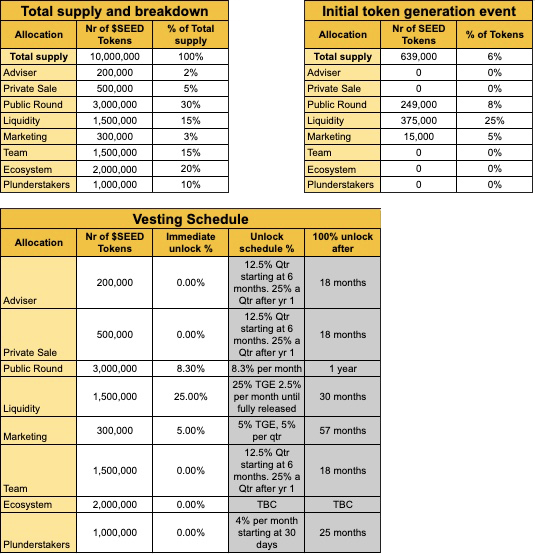
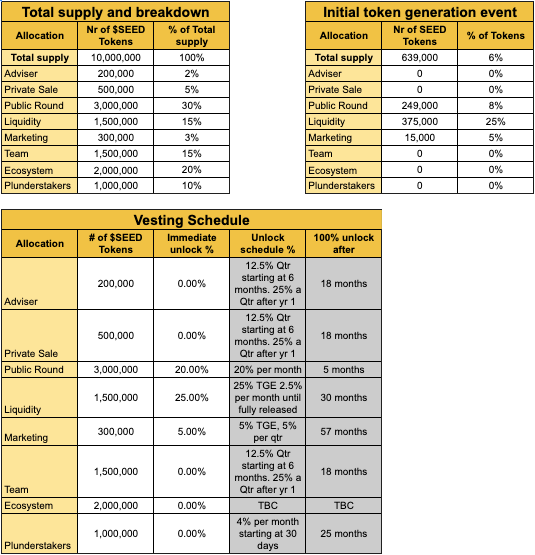
vesting updates

Changed region(s): [[0.0, 0.0, 1.0, 1.0], [0.329, 0.9513, 0.3888, 0.9819], [0.628, 0.8899, 0.6579, 0.9206]]

diff --git a/litepaper.html b/litepaper.html
@@ -179,7 +179,7 @@
 
                             <p class="c3"><span class="c1"></span></p><p class="c8 c39"><span class="c40 c11"></span></p><p class="c8"><span class="c11 c40">SEED TOKENOMICS</span></p><p class="c8 c39"><span class="c1"></span></p><p class="c3"><span class="c5"></span></p><p class="c17"><span>This is the official whitepaper for the </span><span class="c11">SEED</span><span>&nbsp;token sale. This document outlines the distribution schedule, allocation details, and use of the token proceeds. </span><span class="c11">SEED</span><span class="c1">&nbsp;is the very first Digital Asset Reserve Token on the Zilliqa blockchain.</span></p><p class="c3"><span class="c1"></span></p><p class="c3"><span class="c1"></span></p><p class="c17"><span class="c5">Introduction/Overview</span></p><p class="c17"><span class="c11">SEED</span><span>&nbsp; is a groundbreaking token introduced on the Zilliqa blockchain, marking the inception of the first-ever digital reserve asset token. The fundamental purpose of </span><span class="c11">SEED</span><span>&nbsp;lies in its unique economic model designed to generate sustainable value for its holders. Through the proceeds from token sales, </span><span class="c11">SEED</span><span>&nbsp;aims to strategically invest in profit-generating protocols. The returns from these investments will be utilized to execute a systematic buyback and burn mechanism, effectively reducing the circulating supply of </span><span class="c11">SEED</span><span class="c1">&nbsp;and enhancing its market value.</span></p><p class="c3"><span class="c1"></span></p><p class="c3"><span class="c1"></span></p><p class="c17"><span class="c5">Token Allocation</span></p><p class="c3"><span class="c1"></span></p><p class="c17"><span>Token Allocation Summary for </span><span class="c11">SEED</span><span class="c1">:</span></p><p class="c17"><span class="c1">&nbsp;</span></p><p class="c17"><span class="c1">1. Advisor (2%):</span></p><p class="c17"><span>&nbsp; &nbsp;- Allocation for advisors who contribute valuable insights and guidance to the </span><span class="c11">SEED</span><span class="c1">&nbsp;project.</span></p><p class="c17"><span class="c1">&nbsp;</span></p><p class="c17"><span class="c1">2. Private Sale (5%):</span></p><p class="c16"><span>&nbsp; &nbsp;- Reserved for early supporters and private investors who play a crucial role in the initial &nbsp; &nbsp; &nbsp; development and success of </span><span class="c11">SEED</span><span class="c1">.</span></p><p class="c17 c53"><span class="c1">&nbsp;</span></p><p class="c17"><span class="c1">3. Public Round (30%):</span></p><p class="c16"><span>&nbsp; &nbsp;- Open to the public, allowing a broad community to participate in the </span><span class="c11">SEED</span><span class="c1">&nbsp;project during the public token sale.</span></p><p class="c17"><span class="c1">&nbsp;</span></p><p class="c17"><span class="c1">4. Liquidity (15%):</span></p><p class="c16"><span>&nbsp; &nbsp;- Dedicated to ensuring liquidity on the PlunderSwap DEX, promoting a vibrant and active trading environment for </span><span class="c11">SEED</span><span class="c1">.</span></p><p class="c17"><span class="c1">&nbsp;</span></p><p class="c17"><span class="c1">5. Marketing (3%):</span></p><p class="c16"><span>&nbsp; &nbsp;- Allocated for strategic marketing initiatives to raise awareness and promote the adoption of </span><span class="c11">SEED</span><span class="c1">&nbsp; within the Zilliqa community.</span></p><p class="c17"><span class="c1">&nbsp;</span></p><p class="c17"><span class="c1">6. Team (15%):</span></p><p class="c16"><span>&nbsp; &nbsp;- Reserved for the core team members involved in the development, maintenance, and growth of the </span><span class="c11">SEED</span><span class="c1">&nbsp; ecosystem.</span></p><p class="c3"><span class="c1"></span></p><p class="c3"><span class="c1"></span></p><p class="c17"><span class="c1">7. Ecosystem (20%):</span></p><p class="c16"><span>&nbsp; &nbsp;- Invested in various profit-generating protocols, forming the backbone of </span><span class="c11">SEED</span><span class="c1">&#39;s digital reserve asset concept.</span></p><p class="c17"><span class="c1">&nbsp;</span></p><p class="c17"><span class="c1">8. Staker Rewards (10%):</span></p><p class="c16"><span>&nbsp; &nbsp;- Incentives for the community to hold and stake the </span><span class="c11">SEED</span><span class="c1">&nbsp;token, contributing to the stability and longevity of the ecosystem.</span></p><p class="c16"><span class="c1">&nbsp;</span></p><p class="c17"><span class="c11 c33">TOTAL (100%):</span></p><p class="c16"><span>&nbsp; &nbsp;- Represents the comprehensive token allocation ensuring a balanced distribution that aligns with the long-term vision of </span><span class="c11">SEED</span><span>. This structure aims to foster a robust and sustainable ecosystem, rewarding all key stakeholders and encouraging active participation within the </span><span class="c11">SEED</span><span class="c1">&nbsp;community.</span></p><p class="c3"><span class="c1"></span></p><p class="c3"><span class="c5"></span></p><p class="c3"><span class="c5"></span></p><p class="c17"><span class="c5">Token Distribution Schedule</span></p><p class="c3"><span class="c1"></span></p><p class="c17"><span>The total supply of </span><span class="c11">SEED</span><span class="c1">&nbsp;is set at 10,000,000 tokens. The Token Generation Event (TGE) will take place on Day 1, with subsequent distributions occurring at predetermined timeframes (monthly and quarterly) over a 57-month period.</span></p><p class="c3"><span class="c1"></span></p><p class="c3"><span class="c1"></span></p><p class="c3"><span class="c1"></span></p><p class="c3"><span class="c1"></span></p><p class="c17"><span class="c5">Description of Token Use</span></p><p class="c3"><span class="c5"></span></p><a id="t.fbe630b27e29f3c7677c6f12066ea9967d1e6c48"></a><a id="t.0"></a>
                             <img src="images/image3.png">
-                            <p class="c3"><span class="c5"></span></p><p class="c17"><span class="c5">Token Distribution Details</span></p><p class="c3"><span class="c5"></span></p><p class="c17"><span class="c5">Advisor</span></p><a id="t.72db055b9c10b06fbc738f1b09fb3c8650adc62a"></a><a id="t.1"></a><table class="c45"><tr class="c49"><td class="c15" colspan="1" rowspan="1"><p class="c6"><span class="c1">Token Allotment @ TGE (Day 1)</span></p></td><td class="c24" colspan="1" rowspan="1"><p class="c6"><span class="c1">Vesting Schedule</span></p></td><td class="c37 c34" colspan="1" rowspan="1"><p class="c6"><span class="c1">Total Token Allocation</span></p></td><td class="c0" colspan="1" rowspan="1"><p class="c6"><span class="c1">100% Vested After</span></p></td></tr><tr class="c18"><td class="c41" colspan="1" rowspan="1"><p class="c8"><span class="c1">0</span></p></td><td class="c44" colspan="1" rowspan="1"><p class="c8"><span class="c1">Quarterly &nbsp;</span></p></td><td class="c48" colspan="1" rowspan="1"><p class="c17"><span class="c1">&nbsp; &nbsp; &nbsp; &nbsp; &nbsp; &nbsp; &nbsp; 200,000</span></p></td><td class="c55" colspan="1" rowspan="1"><p class="c8"><span class="c1">18 Months &nbsp; &nbsp;</span></p></td></tr></table><p class="c3"><span class="c1"></span></p><p class="c3"><span class="c1"></span></p><p class="c17"><span class="c5">Private Sale</span></p><a id="t.b46cc38a58ca2e1f2f03e9da78622d5493d8d6ae"></a><a id="t.2"></a><table class="c45"><tr class="c18"><td class="c4 c34" colspan="1" rowspan="1"><p class="c6"><span class="c1">Token Allotment @ TGE (Day 1)</span></p></td><td class="c24" colspan="1" rowspan="1"><p class="c6"><span class="c1">Vesting Schedule</span></p></td><td class="c34 c43" colspan="1" rowspan="1"><p class="c6"><span class="c1">Total Token Allocation</span></p></td><td class="c10 c34" colspan="1" rowspan="1"><p class="c6"><span class="c1">100% Vested After</span></p></td></tr><tr class="c18"><td class="c4" colspan="1" rowspan="1"><p class="c8"><span class="c1">0 &nbsp; &nbsp; &nbsp; &nbsp; </span></p></td><td class="c44 c47" colspan="1" rowspan="1"><p class="c8"><span class="c1">Quarterly</span></p></td><td class="c43" colspan="1" rowspan="1"><p class="c8"><span class="c1">500,000 &nbsp; &nbsp; &nbsp; &nbsp; &nbsp; &nbsp; &nbsp; </span></p></td><td class="c10" colspan="1" rowspan="1"><p class="c8"><span class="c1">18 Months &nbsp; &nbsp;</span></p></td></tr></table><p class="c3"><span class="c1"></span></p><p class="c3"><span class="c1"></span></p><p class="c17"><span class="c5">Public Round</span></p><a id="t.b650da941dede19bde555898ff059409dfdc61e3"></a><a id="t.3"></a><table class="c45"><tr class="c18"><td class="c9 c34" colspan="1" rowspan="1"><p class="c6"><span class="c1">Token Allotment @ TGE (Day 1)</span></p></td><td class="c47 c34 c50" colspan="1" rowspan="1"><p class="c6"><span class="c1">Vesting Schedule</span></p></td><td class="c37 c34" colspan="1" rowspan="1"><p class="c6"><span class="c1">Total Token Allocation</span></p></td><td class="c0" colspan="1" rowspan="1"><p class="c6"><span class="c1">100% Vested After</span></p></td></tr><tr class="c18"><td class="c9" colspan="1" rowspan="1"><p class="c8"><span class="c1">249,000 &nbsp; &nbsp; &nbsp; &nbsp; &nbsp; &nbsp;</span></p></td><td class="c50 c47" colspan="1" rowspan="1"><p class="c8"><span class="c1">Monthly &nbsp; &nbsp;</span></p></td><td class="c37" colspan="1" rowspan="1"><p class="c8"><span class="c1">3,000,000 &nbsp; &nbsp; &nbsp; &nbsp; &nbsp; &nbsp; </span></p></td><td class="c46" colspan="1" rowspan="1"><p class="c8"><span class="c1">12 Months &nbsp; </span></p></td></tr></table><p class="c3"><span class="c1"></span></p><p class="c3"><span class="c1"></span></p><p class="c17"><span class="c5">Marketing</span></p><a id="t.c1a7bb89cf7cef8a136aa7e26ece98247c0ef499"></a><a id="t.4"></a><table class="c45"><tr class="c18"><td class="c15" colspan="1" rowspan="1"><p class="c6"><span class="c1">Token Allotment @ TGE (Day 1)</span></p></td><td class="c42 c34" colspan="1" rowspan="1"><p class="c6"><span class="c1">Vesting Schedule</span></p></td><td class="c38 c34" colspan="1" rowspan="1"><p class="c6"><span class="c1">Total Token Allocation</span></p></td><td class="c10 c34" colspan="1" rowspan="1"><p class="c6"><span class="c1">100% Vested After</span></p></td></tr><tr class="c18"><td class="c41" colspan="1" rowspan="1"><p class="c8"><span class="c1">15,000 &nbsp; &nbsp; &nbsp; &nbsp; &nbsp; </span></p></td><td class="c42" colspan="1" rowspan="1"><p class="c8"><span class="c1">Quarterly &nbsp; &nbsp;</span></p></td><td class="c38" colspan="1" rowspan="1"><p class="c8"><span class="c1">300,000 &nbsp; &nbsp; &nbsp; &nbsp; &nbsp; &nbsp; </span></p></td><td class="c10" colspan="1" rowspan="1"><p class="c8"><span class="c1">57 Months &nbsp; </span></p></td></tr></table><p class="c3"><span class="c1"></span></p><p class="c3"><span class="c1"></span></p><p class="c17"><span class="c5">Liquidity</span></p><a id="t.1810d07a531e0c4413435f2ee3cb5c5985b67c41"></a><a id="t.5"></a><table class="c45"><tr class="c18"><td class="c15" colspan="1" rowspan="1"><p class="c6"><span class="c1">Token Allotment @ TGE (Day 1)</span></p></td><td class="c20 c34" colspan="1" rowspan="1"><p class="c6"><span class="c1">Vesting Schedule</span></p></td><td class="c38 c34" colspan="1" rowspan="1"><p class="c6"><span class="c1">Total Token Allocation</span></p></td><td class="c43 c34" colspan="1" rowspan="1"><p class="c6"><span class="c1">100% Vested After</span></p></td></tr><tr class="c18"><td class="c41" colspan="1" rowspan="1"><p class="c8"><span class="c1">375,000 &nbsp; &nbsp; &nbsp; &nbsp; &nbsp;</span></p></td><td class="c20" colspan="1" rowspan="1"><p class="c8"><span class="c1">Monthly</span></p></td><td class="c38" colspan="1" rowspan="1"><p class="c8"><span class="c1">1,500,000 &nbsp; &nbsp; &nbsp; &nbsp; &nbsp; &nbsp; &nbsp; </span></p></td><td class="c43" colspan="1" rowspan="1"><p class="c8"><span class="c1">30 Months &nbsp; &nbsp;</span></p></td></tr></table><p class="c3"><span class="c1"></span></p><p class="c3"><span class="c1"></span></p><p class="c17"><span class="c5">Team</span></p><a id="t.6c3ff102ac706066e7102e03fe6d2fa4e0390f0e"></a><a id="t.6"></a><table class="c45"><tr class="c18"><td class="c9 c34" colspan="1" rowspan="1"><p class="c6"><span class="c1">Token Allotment @ TGE (Day 1)</span></p></td><td class="c24" colspan="1" rowspan="1"><p class="c6"><span class="c1">Vesting Schedule</span></p></td><td class="c21" colspan="1" rowspan="1"><p class="c6"><span class="c1">Total Token Allocation</span></p></td><td class="c34 c38" colspan="1" rowspan="1"><p class="c6"><span class="c1">100% Vested After</span></p></td></tr><tr class="c18"><td class="c9" colspan="1" rowspan="1"><p class="c8"><span class="c1">0 &nbsp; &nbsp; &nbsp; &nbsp; &nbsp; </span></p></td><td class="c44 c47" colspan="1" rowspan="1"><p class="c8"><span class="c1">Quarterly</span></p></td><td class="c47 c52" colspan="1" rowspan="1"><p class="c8"><span class="c1">1,500,000 &nbsp; &nbsp; &nbsp; &nbsp; &nbsp; &nbsp; &nbsp;</span></p></td><td class="c38" colspan="1" rowspan="1"><p class="c8"><span class="c1">18 Months &nbsp;</span></p></td></tr></table><p class="c3"><span class="c5"></span></p><p class="c3"><span class="c5"></span></p><p class="c17"><span class="c5">Ecosystem</span></p><a id="t.b5202189763bf8323b51d3122d4bd9240e922412"></a><a id="t.7"></a><table class="c45"><tr class="c18"><td class="c22 c34" colspan="1" rowspan="1"><p class="c6"><span class="c1">Token Allotment @ TGE (Day 1)</span></p></td><td class="c25" colspan="1" rowspan="1"><p class="c6"><span class="c1">Vesting Schedule</span></p></td><td class="c36 c34" colspan="1" rowspan="1"><p class="c6"><span class="c1">Total Token Allocation</span></p></td><td class="c37 c34" colspan="1" rowspan="1"><p class="c6"><span class="c1">100% Vested After</span></p></td></tr><tr class="c18"><td class="c22" colspan="1" rowspan="1"><p class="c8"><span class="c1">0 &nbsp; &nbsp; &nbsp;</span></p></td><td class="c47 c54" colspan="1" rowspan="1"><p class="c8"><span class="c1">Varies</span></p></td><td class="c36" colspan="1" rowspan="1"><p class="c8"><span class="c1">2,000,000 &nbsp; &nbsp; &nbsp; &nbsp; &nbsp; &nbsp;</span></p></td><td class="c37" colspan="1" rowspan="1"><p class="c8"><span class="c1">N/A &nbsp; </span></p></td></tr></table><p class="c3"><span class="c5"></span></p><p class="c3"><span class="c5"></span></p><p class="c17"><span class="c5">PlunderStake Rewards</span></p><a id="t.ad6bd5a79016df0549506fe1009327287f190c25"></a><a id="t.8"></a><table class="c45"><tr class="c18"><td class="c22 c34" colspan="1" rowspan="1"><p class="c6"><span class="c1">Token Allotment @ TGE (Day 1)</span></p></td><td class="c34 c35" colspan="1" rowspan="1"><p class="c6"><span class="c1">Vesting Schedule</span></p></td><td class="c10 c34" colspan="1" rowspan="1"><p class="c6"><span class="c1">Total Token Allocation</span></p></td><td class="c10 c34" colspan="1" rowspan="1"><p class="c6"><span class="c1">100% Vested After</span></p></td></tr><tr class="c18"><td class="c22" colspan="1" rowspan="1"><p class="c8"><span class="c1">0 &nbsp; &nbsp; &nbsp; &nbsp; &nbsp;</span></p></td><td class="c35" colspan="1" rowspan="1"><p class="c8"><span class="c1">Monthly</span></p></td><td class="c10" colspan="1" rowspan="1"><p class="c8"><span class="c1">1,000,000 &nbsp; &nbsp; &nbsp; &nbsp; &nbsp; &nbsp; </span></p></td><td class="c10" colspan="1" rowspan="1"><p class="c8"><span class="c1">25 Months &nbsp; &nbsp; </span></p></td></tr></table><p class="c3"><span class="c5"></span></p><p class="c3"><span class="c5"></span></p><p class="c3"><span class="c5"></span></p><p class="c17"><span class="c5">Token Allocation Review</span></p><p class="c3"><span class="c1"></span></p><p class="c17"><span class="c1">The total token allocation is 10,000,000, with an equivalent value of $960,000.</span></p><p class="c3"><span class="c1"></span></p><p><img alt="" src="images/image2.png" style="max-width:100%; max-height:100%; margin-left: 0.00px; margin-top: 0.00px; transform: rotate(0.00rad) translateZ(0px); -webkit-transform: rotate(0.00rad) translateZ(0px);" title=""></p><p><img alt="" src="images/image1.png" style="width: auto; object-fit: contain; margin-left: 0.00px; margin-top: 0.00px; transform: rotate(0.00rad) translateZ(0px); -webkit-transform: rotate(0.00rad) translateZ(0px);" title=""></p><p class="c17"><span class="c5">Long term Objective</span></p><p class="c3"><span class="c5"></span></p><p class="c17"><span>The long-term objective of </span><span class="c11">SEED</span><span>&nbsp;is to establish itself as a robust digital reserve asset, fostering a self-sustaining ecosystem on the Zilliqa blockchain. By consistently reinvesting in proven, revenue generating protocols, </span><span class="c11">SEED</span><span>&nbsp;aims to not only increase its intrinsic value but also to contribute to the broader development of decentralized finance. </span><span class="c11">SEED </span><span>is committed to &nbsp;incentivizing its community through various mechanisms. Rewards for token holders providing liquidity on the PlunderSwap DEX, along with additional incentives for those staking their </span><span class="c11">SEED</span><span>&nbsp; tokens on the PlunderStake SSN, are integral to fostering a committed and engaged community. Through these initiatives, </span><span class="c11">SEED</span><span class="c1">&nbsp;strives to create a resilient financial infrastructure, encouraging long-term holding and active participation, thereby solidifying its position as a key protocol in the evolving Zilliqa ecosystem.</span></p><p class="c3"><span class="c5"></span></p><p class="c3"><span class="c5"></span></p><p class="c17"><span class="c5">Conclusion</span></p><p class="c3"><span class="c1"></span></p><p class="c17"><span class="c11">SEED</span><span class="c1">&nbsp;envisions a groundbreaking project, and we appreciate your support in making this vision a reality. For more details, please visit us on {X, TG, etc}. </span></p><p class="c3"><span class="c1"></span></p><p class="c17" id="h.gjdgxs"><span class="c11">*NOTE</span><span>: The values in this whitepaper are for illustrative purposes only and are subject to change based on market conditions and project developments. </span><span class="c51">NOT FINANCIAL ADVICE</span><span class="c1">*</span></p>
+                            <p class="c3"><span class="c5"></span></p><p class="c17"><span class="c5">Token Distribution Details</span></p><p class="c3"><span class="c5"></span></p><p class="c17"><span class="c5">Advisor</span></p><a id="t.72db055b9c10b06fbc738f1b09fb3c8650adc62a"></a><a id="t.1"></a><table class="c45"><tr class="c49"><td class="c15" colspan="1" rowspan="1"><p class="c6"><span class="c1">Token Allotment @ TGE (Day 1)</span></p></td><td class="c24" colspan="1" rowspan="1"><p class="c6"><span class="c1">Vesting Schedule</span></p></td><td class="c37 c34" colspan="1" rowspan="1"><p class="c6"><span class="c1">Total Token Allocation</span></p></td><td class="c0" colspan="1" rowspan="1"><p class="c6"><span class="c1">100% Vested After</span></p></td></tr><tr class="c18"><td class="c41" colspan="1" rowspan="1"><p class="c8"><span class="c1">0</span></p></td><td class="c44" colspan="1" rowspan="1"><p class="c8"><span class="c1">Quarterly &nbsp;</span></p></td><td class="c48" colspan="1" rowspan="1"><p class="c17"><span class="c1">&nbsp; &nbsp; &nbsp; &nbsp; &nbsp; &nbsp; &nbsp; 200,000</span></p></td><td class="c55" colspan="1" rowspan="1"><p class="c8"><span class="c1">18 Months &nbsp; &nbsp;</span></p></td></tr></table><p class="c3"><span class="c1"></span></p><p class="c3"><span class="c1"></span></p><p class="c17"><span class="c5">Private Sale</span></p><a id="t.b46cc38a58ca2e1f2f03e9da78622d5493d8d6ae"></a><a id="t.2"></a><table class="c45"><tr class="c18"><td class="c4 c34" colspan="1" rowspan="1"><p class="c6"><span class="c1">Token Allotment @ TGE (Day 1)</span></p></td><td class="c24" colspan="1" rowspan="1"><p class="c6"><span class="c1">Vesting Schedule</span></p></td><td class="c34 c43" colspan="1" rowspan="1"><p class="c6"><span class="c1">Total Token Allocation</span></p></td><td class="c10 c34" colspan="1" rowspan="1"><p class="c6"><span class="c1">100% Vested After</span></p></td></tr><tr class="c18"><td class="c4" colspan="1" rowspan="1"><p class="c8"><span class="c1">0 &nbsp; &nbsp; &nbsp; &nbsp; </span></p></td><td class="c44 c47" colspan="1" rowspan="1"><p class="c8"><span class="c1">Quarterly</span></p></td><td class="c43" colspan="1" rowspan="1"><p class="c8"><span class="c1">500,000 &nbsp; &nbsp; &nbsp; &nbsp; &nbsp; &nbsp; &nbsp; </span></p></td><td class="c10" colspan="1" rowspan="1"><p class="c8"><span class="c1">18 Months &nbsp; &nbsp;</span></p></td></tr></table><p class="c3"><span class="c1"></span></p><p class="c3"><span class="c1"></span></p><p class="c17"><span class="c5">Public Round</span></p><a id="t.b650da941dede19bde555898ff059409dfdc61e3"></a><a id="t.3"></a><table class="c45"><tr class="c18"><td class="c9 c34" colspan="1" rowspan="1"><p class="c6"><span class="c1">Token Allotment @ TGE (Day 1)</span></p></td><td class="c47 c34 c50" colspan="1" rowspan="1"><p class="c6"><span class="c1">Vesting Schedule</span></p></td><td class="c37 c34" colspan="1" rowspan="1"><p class="c6"><span class="c1">Total Token Allocation</span></p></td><td class="c0" colspan="1" rowspan="1"><p class="c6"><span class="c1">100% Vested After</span></p></td></tr><tr class="c18"><td class="c9" colspan="1" rowspan="1"><p class="c8"><span class="c1">249,000 &nbsp; &nbsp; &nbsp; &nbsp; &nbsp; &nbsp;</span></p></td><td class="c50 c47" colspan="1" rowspan="1"><p class="c8"><span class="c1">Monthly &nbsp; &nbsp;</span></p></td><td class="c37" colspan="1" rowspan="1"><p class="c8"><span class="c1">3,000,000 &nbsp; &nbsp; &nbsp; &nbsp; &nbsp; &nbsp; </span></p></td><td class="c46" colspan="1" rowspan="1"><p class="c8"><span class="c1">5 Months &nbsp; </span></p></td></tr></table><p class="c3"><span class="c1"></span></p><p class="c3"><span class="c1"></span></p><p class="c17"><span class="c5">Marketing</span></p><a id="t.c1a7bb89cf7cef8a136aa7e26ece98247c0ef499"></a><a id="t.4"></a><table class="c45"><tr class="c18"><td class="c15" colspan="1" rowspan="1"><p class="c6"><span class="c1">Token Allotment @ TGE (Day 1)</span></p></td><td class="c42 c34" colspan="1" rowspan="1"><p class="c6"><span class="c1">Vesting Schedule</span></p></td><td class="c38 c34" colspan="1" rowspan="1"><p class="c6"><span class="c1">Total Token Allocation</span></p></td><td class="c10 c34" colspan="1" rowspan="1"><p class="c6"><span class="c1">100% Vested After</span></p></td></tr><tr class="c18"><td class="c41" colspan="1" rowspan="1"><p class="c8"><span class="c1">15,000 &nbsp; &nbsp; &nbsp; &nbsp; &nbsp; </span></p></td><td class="c42" colspan="1" rowspan="1"><p class="c8"><span class="c1">Quarterly &nbsp; &nbsp;</span></p></td><td class="c38" colspan="1" rowspan="1"><p class="c8"><span class="c1">300,000 &nbsp; &nbsp; &nbsp; &nbsp; &nbsp; &nbsp; </span></p></td><td class="c10" colspan="1" rowspan="1"><p class="c8"><span class="c1">57 Months &nbsp; </span></p></td></tr></table><p class="c3"><span class="c1"></span></p><p class="c3"><span class="c1"></span></p><p class="c17"><span class="c5">Liquidity</span></p><a id="t.1810d07a531e0c4413435f2ee3cb5c5985b67c41"></a><a id="t.5"></a><table class="c45"><tr class="c18"><td class="c15" colspan="1" rowspan="1"><p class="c6"><span class="c1">Token Allotment @ TGE (Day 1)</span></p></td><td class="c20 c34" colspan="1" rowspan="1"><p class="c6"><span class="c1">Vesting Schedule</span></p></td><td class="c38 c34" colspan="1" rowspan="1"><p class="c6"><span class="c1">Total Token Allocation</span></p></td><td class="c43 c34" colspan="1" rowspan="1"><p class="c6"><span class="c1">100% Vested After</span></p></td></tr><tr class="c18"><td class="c41" colspan="1" rowspan="1"><p class="c8"><span class="c1">375,000 &nbsp; &nbsp; &nbsp; &nbsp; &nbsp;</span></p></td><td class="c20" colspan="1" rowspan="1"><p class="c8"><span class="c1">Monthly</span></p></td><td class="c38" colspan="1" rowspan="1"><p class="c8"><span class="c1">1,500,000 &nbsp; &nbsp; &nbsp; &nbsp; &nbsp; &nbsp; &nbsp; </span></p></td><td class="c43" colspan="1" rowspan="1"><p class="c8"><span class="c1">30 Months &nbsp; &nbsp;</span></p></td></tr></table><p class="c3"><span class="c1"></span></p><p class="c3"><span class="c1"></span></p><p class="c17"><span class="c5">Team</span></p><a id="t.6c3ff102ac706066e7102e03fe6d2fa4e0390f0e"></a><a id="t.6"></a><table class="c45"><tr class="c18"><td class="c9 c34" colspan="1" rowspan="1"><p class="c6"><span class="c1">Token Allotment @ TGE (Day 1)</span></p></td><td class="c24" colspan="1" rowspan="1"><p class="c6"><span class="c1">Vesting Schedule</span></p></td><td class="c21" colspan="1" rowspan="1"><p class="c6"><span class="c1">Total Token Allocation</span></p></td><td class="c34 c38" colspan="1" rowspan="1"><p class="c6"><span class="c1">100% Vested After</span></p></td></tr><tr class="c18"><td class="c9" colspan="1" rowspan="1"><p class="c8"><span class="c1">0 &nbsp; &nbsp; &nbsp; &nbsp; &nbsp; </span></p></td><td class="c44 c47" colspan="1" rowspan="1"><p class="c8"><span class="c1">Quarterly</span></p></td><td class="c47 c52" colspan="1" rowspan="1"><p class="c8"><span class="c1">1,500,000 &nbsp; &nbsp; &nbsp; &nbsp; &nbsp; &nbsp; &nbsp;</span></p></td><td class="c38" colspan="1" rowspan="1"><p class="c8"><span class="c1">18 Months &nbsp;</span></p></td></tr></table><p class="c3"><span class="c5"></span></p><p class="c3"><span class="c5"></span></p><p class="c17"><span class="c5">Ecosystem</span></p><a id="t.b5202189763bf8323b51d3122d4bd9240e922412"></a><a id="t.7"></a><table class="c45"><tr class="c18"><td class="c22 c34" colspan="1" rowspan="1"><p class="c6"><span class="c1">Token Allotment @ TGE (Day 1)</span></p></td><td class="c25" colspan="1" rowspan="1"><p class="c6"><span class="c1">Vesting Schedule</span></p></td><td class="c36 c34" colspan="1" rowspan="1"><p class="c6"><span class="c1">Total Token Allocation</span></p></td><td class="c37 c34" colspan="1" rowspan="1"><p class="c6"><span class="c1">100% Vested After</span></p></td></tr><tr class="c18"><td class="c22" colspan="1" rowspan="1"><p class="c8"><span class="c1">0 &nbsp; &nbsp; &nbsp;</span></p></td><td class="c47 c54" colspan="1" rowspan="1"><p class="c8"><span class="c1">Varies</span></p></td><td class="c36" colspan="1" rowspan="1"><p class="c8"><span class="c1">2,000,000 &nbsp; &nbsp; &nbsp; &nbsp; &nbsp; &nbsp;</span></p></td><td class="c37" colspan="1" rowspan="1"><p class="c8"><span class="c1">N/A &nbsp; </span></p></td></tr></table><p class="c3"><span class="c5"></span></p><p class="c3"><span class="c5"></span></p><p class="c17"><span class="c5">PlunderStake Rewards</span></p><a id="t.ad6bd5a79016df0549506fe1009327287f190c25"></a><a id="t.8"></a><table class="c45"><tr class="c18"><td class="c22 c34" colspan="1" rowspan="1"><p class="c6"><span class="c1">Token Allotment @ TGE (Day 1)</span></p></td><td class="c34 c35" colspan="1" rowspan="1"><p class="c6"><span class="c1">Vesting Schedule</span></p></td><td class="c10 c34" colspan="1" rowspan="1"><p class="c6"><span class="c1">Total Token Allocation</span></p></td><td class="c10 c34" colspan="1" rowspan="1"><p class="c6"><span class="c1">100% Vested After</span></p></td></tr><tr class="c18"><td class="c22" colspan="1" rowspan="1"><p class="c8"><span class="c1">0 &nbsp; &nbsp; &nbsp; &nbsp; &nbsp;</span></p></td><td class="c35" colspan="1" rowspan="1"><p class="c8"><span class="c1">Monthly</span></p></td><td class="c10" colspan="1" rowspan="1"><p class="c8"><span class="c1">1,000,000 &nbsp; &nbsp; &nbsp; &nbsp; &nbsp; &nbsp; </span></p></td><td class="c10" colspan="1" rowspan="1"><p class="c8"><span class="c1">25 Months &nbsp; &nbsp; </span></p></td></tr></table><p class="c3"><span class="c5"></span></p><p class="c3"><span class="c5"></span></p><p class="c3"><span class="c5"></span></p><p class="c17"><span class="c5">Token Allocation Review</span></p><p class="c3"><span class="c1"></span></p><p class="c17"><span class="c1">The total token allocation is 10,000,000, with an equivalent value of $960,000.</span></p><p class="c3"><span class="c1"></span></p><p><img alt="" src="images/image2.png" style="max-width:100%; max-height:100%; margin-left: 0.00px; margin-top: 0.00px; transform: rotate(0.00rad) translateZ(0px); -webkit-transform: rotate(0.00rad) translateZ(0px);" title=""></p><p><img alt="" src="images/image1.png" style="width: auto; object-fit: contain; margin-left: 0.00px; margin-top: 0.00px; transform: rotate(0.00rad) translateZ(0px); -webkit-transform: rotate(0.00rad) translateZ(0px);" title=""></p><p class="c17"><span class="c5">Long term Objective</span></p><p class="c3"><span class="c5"></span></p><p class="c17"><span>The long-term objective of </span><span class="c11">SEED</span><span>&nbsp;is to establish itself as a robust digital reserve asset, fostering a self-sustaining ecosystem on the Zilliqa blockchain. By consistently reinvesting in proven, revenue generating protocols, </span><span class="c11">SEED</span><span>&nbsp;aims to not only increase its intrinsic value but also to contribute to the broader development of decentralized finance. </span><span class="c11">SEED </span><span>is committed to &nbsp;incentivizing its community through various mechanisms. Rewards for token holders providing liquidity on the PlunderSwap DEX, along with additional incentives for those staking their </span><span class="c11">SEED</span><span>&nbsp; tokens on the PlunderStake SSN, are integral to fostering a committed and engaged community. Through these initiatives, </span><span class="c11">SEED</span><span class="c1">&nbsp;strives to create a resilient financial infrastructure, encouraging long-term holding and active participation, thereby solidifying its position as a key protocol in the evolving Zilliqa ecosystem.</span></p><p class="c3"><span class="c5"></span></p><p class="c3"><span class="c5"></span></p><p class="c17"><span class="c5">Conclusion</span></p><p class="c3"><span class="c1"></span></p><p class="c17"><span class="c11">SEED</span><span class="c1">&nbsp;envisions a groundbreaking project, and we appreciate your support in making this vision a reality. For more details, please visit us on {X, TG, etc}. </span></p><p class="c3"><span class="c1"></span></p><p class="c17" id="h.gjdgxs"><span class="c11">*NOTE</span><span>: The values in this whitepaper are for illustrative purposes only and are subject to change based on market conditions and project developments. </span><span class="c51">NOT FINANCIAL ADVICE</span><span class="c1">*</span></p>
 
 
 

diff --git a/tokenomics.html b/tokenomics.html
@@ -205,7 +205,7 @@
 															 <p><i class="fa-solid fa-seedling" style="color: #59c85c; text-indent: -10px;"></i>  To support a disciplined low-inflation supply flow, the vesting schedule for various allocations of SEED has been designed to slow-release the availability of tokens.
 </p>
 														<p>
-														<i class="fa-solid fa-seedling" style="color: #59c85c; text-indent: -10px;" ></i> Public round investors will have 8.3% of their tokens unlocked and available to claim per month, with a total one year vesting period for 100% of the purchased allocation.
+														<i class="fa-solid fa-seedling" style="color: #59c85c; text-indent: -10px;" ></i> Public round investors will have 20.0% of their tokens unlocked and available to claim per month, with a total five-month vesting period for 100% of the purchased allocation.
 
 														</div>
 
